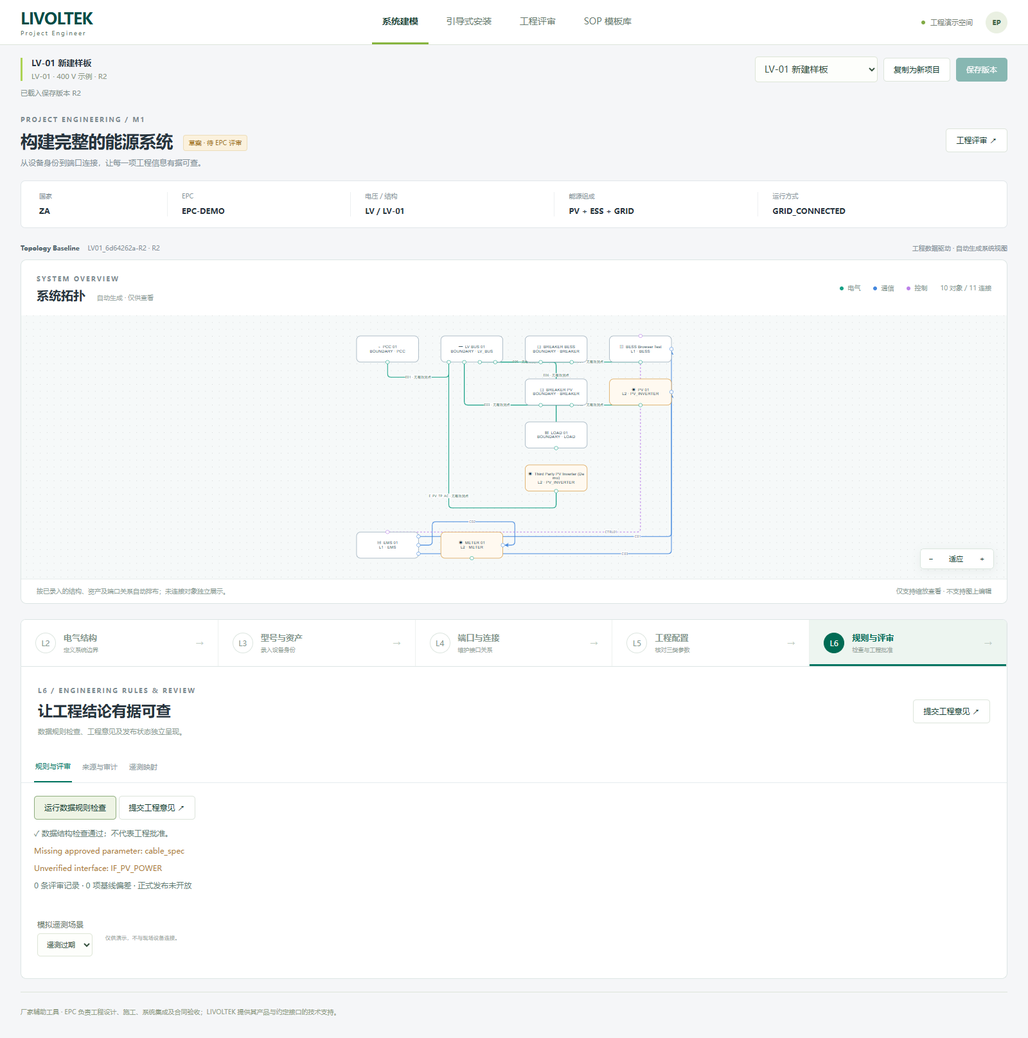
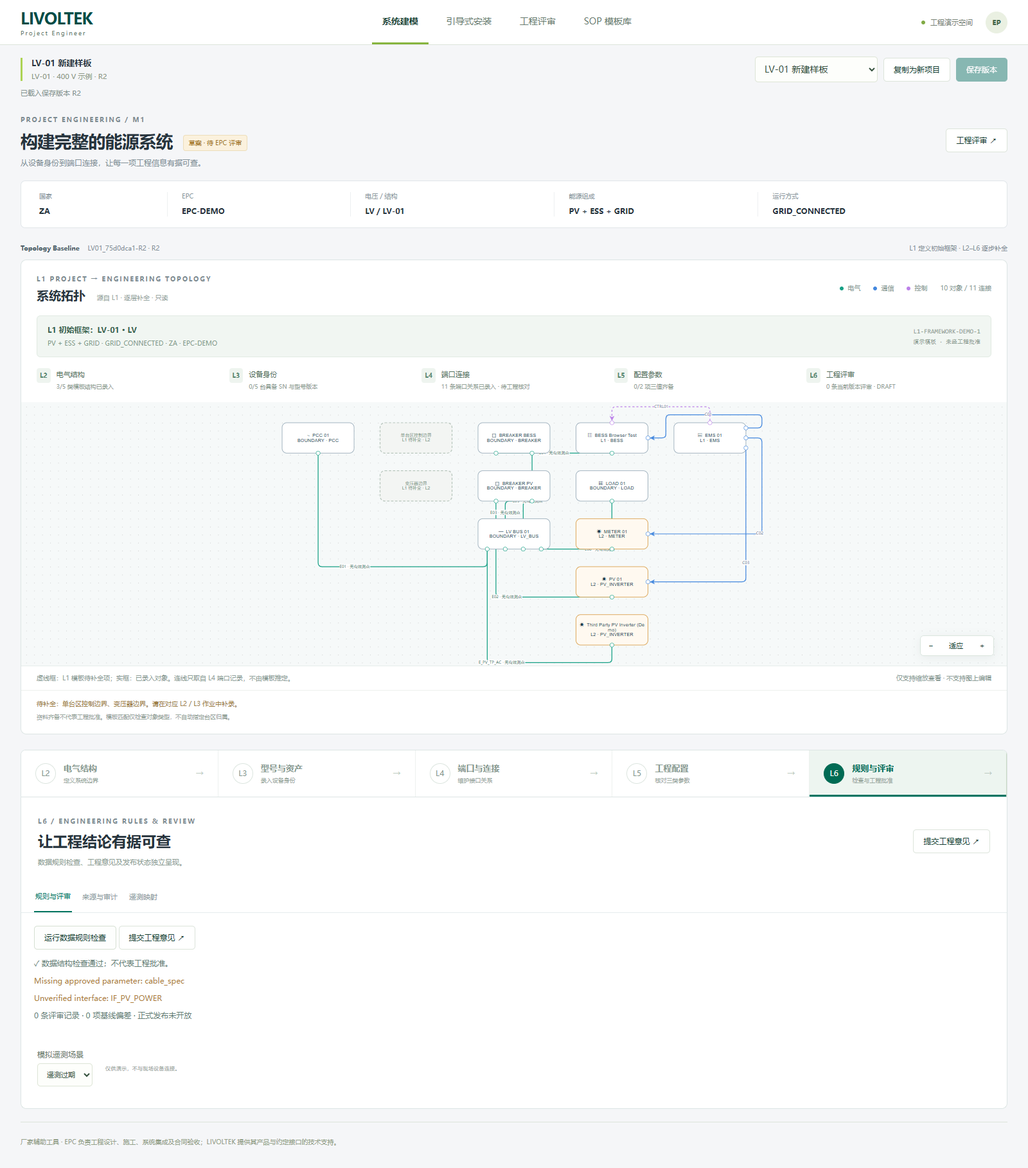
Derive initial topology framework from L1 and show progressive evidence

diff --git a/frontend/src/M1.tsx b/frontend/src/M1.tsx
@@ -2,6 +2,7 @@ import {useEffect,useMemo,useState} from 'react'
 import {Topology,colors} from './Topology'
 import {api,type Model,type Kind,type Flow,type Review} from './types'
 import './m1.css'
+import {projectFramework,completionEvidence,templateVersion} from './projectTopology'
 
 type Props={model:Model;change:(m:Model)=>void;selected:string;select:(id:string)=>void;flows:Record<string,Flow>;review:()=>void;reviews:Review[];revision:number;scenario:string;setScenario:(s:string)=>void}
 type Value={value:number;unit:string;source:string;status?:string;source_ref?:string}
@@ -19,6 +20,8 @@ export function M1({model,change,selected,select,flows,review,reviews,revision,s
  const [from,setFrom]=useState(''),[to,setTo]=useState('')
  const [search,setSearch]=useState(''),[code,setCode]=useState(''),[resolved,setResolved]=useState(false),[error,setError]=useState(''),[result,setResult]=useState<{valid:boolean;errors:string[];warnings:string[]}|null>(null)
  const [form,setForm]=useState({name:'',manufacturer:'',model:'',sn:'',firmware:'',location:'',type:'PV_INVERTER',parent:'',document:'',domains:['AC','RS485'] as string[]})
+ const framework=useMemo(()=>projectFramework(model),[model])
+ const evidence=completionEvidence(model,reviews,revision)
  const canvasModel=useMemo(()=>({...model,view_layout:{...model.view_layout,layer_visibility:{ELECTRICAL:true,COMMUNICATION:true,CONTROL:true}}}),[model])
  const node=model.nodes.find(n=>n.node_id===selected),asset=model.device_assets.find(a=>a.asset_id===node?.device_asset_id),device=model.device_models.find(d=>d.model_id===asset?.model_id),edge=model.edges.find(e=>e.edge_id===selected)
  const livoltek=asset?.equipment_origin==='LIVOLTEK'
@@ -53,8 +56,8 @@ export function M1({model,change,selected,select,flows,review,reviews,revision,s
  return <section className="m1">
   <div className="m1Title"><div><span className="kicker">PROJECT ENGINEERING / M1</span><h1>构建完整的能源系统<span className="draft">草案 · 待 EPC 评审</span></h1><p>从设备身份到端口连接，让每一项工程信息有据可查。</p></div><button onClick={review}>工程评审 ↗</button></div>
   <div className="projectFacts">{[['国家',String(model.project.country_code)],['EPC',String(model.project.epc_org_id)],['电压 / 结构',`${model.project.voltage_level} / ${model.project.structure_code}`],['能源组成',(model.project.energy_features as string[]).join(' + ')],['运行方式',(model.project.operation_modes as string[]).join(' / ')]].map(([k,v])=><div key={k}><small>{k}</small><strong>{v}</strong></div>)}</div>
-  <div className="crossbar"><span><b>Topology Baseline</b> {model.baseline.baseline_id} · R{revision}</span><span>工程数据驱动 · 自动生成系统视图</span></div>
-  <section className="systemOverview" aria-label="自动生成系统拓扑"><div className="overviewHeading"><div><span className="kicker">SYSTEM OVERVIEW</span><h2>系统拓扑 <span>自动生成 · 仅供查看</span></h2></div><div className="staticLegend">{kinds.map(k=><span key={k}><i style={{background:colors[k]}}/>{kindName[k]}</span>)}<span>{model.nodes.length} 对象 / {model.edges.length} 连接</span></div></div><Topology model={canvasModel} flows={flows}/><div className="overviewFoot"><span>按已录入的结构、资产及端口关系自动排布；未连接对象独立展示。</span><span>仅支持缩放查看 · 不支持图上编辑</span></div></section>
+  <div className="crossbar"><span><b>Topology Baseline</b> {model.baseline.baseline_id} · R{revision}</span><span>L1 定义初始框架 · L2–L6 逐步补全</span></div>
+  <section className="systemOverview" aria-label="自动生成系统拓扑"><div className="overviewHeading"><div><span className="kicker">L1 PROJECT → ENGINEERING TOPOLOGY</span><h2>系统拓扑 <span>源自 L1 · 逐层补全 · 只读</span></h2></div><div className="staticLegend">{kinds.map(k=><span key={k}><i style={{background:colors[k]}}/>{kindName[k]}</span>)}<span>{model.nodes.length} 对象 / {model.edges.length} 连接</span></div></div><div className="frameworkSource"><div><strong>L1 初始框架：{model.project.structure_code} · {String(model.project.voltage_level)}</strong><p>{(model.project.energy_features as string[]).join(' + ')} · {(model.project.operation_modes as string[]).join(' / ')} · {String(model.project.country_code)} · {String(model.project.epc_org_id)}</p></div><span>{templateVersion}<small>演示模板 · 未经工程批准</small></span></div><div className="completionEvidence">{evidence.map(([level,title,text])=><div key={level}><b>{level}</b><span>{title}<small>{text}</small></span></div>)}</div><Topology model={canvasModel} flows={flows}/><div className="overviewFoot"><span>虚线框：L1 模板待补全项；实框：已录入对象。连线只取自 L4 端口记录，不由模板推定。</span><span>仅支持缩放查看 · 不支持图上编辑</span></div><div className="frameworkGaps">{framework.missing.length?<>待补全：{framework.missing.map(s=>s.name).join('、')}。请在对应 L2 / L3 作业中补录。</>:<>L1 模板类型已覆盖；仍需核对数量、归属、接线、参数及评审。</>}<small>资料齐备不代表工程批准。模板匹配仅检查对象类型，不自动指定台区归属。{model.project.structure_code==='MV-03'?' MV-03 为待确认功能特化模板。':''}</small></div></section>
   <nav className="stageNav" aria-label="工程数据分层">{[['L2','电气结构','定义系统边界'],['L3','型号与资产','录入设备身份'],['L4','端口与连接','维护接口关系'],['L5','工程配置','核对三类参数'],['L6','规则与评审','检查与工程批准']].map(([id,title,description])=><button key={id} className={stage===id?'active':''} aria-current={stage===id?'step':undefined} onClick={()=>{setStage(id);setError('');if(id==='L3'&&!asset)select(model.nodes.find(n=>n.device_asset_id)?.node_id||selected);if(id==='L6')setBottom('规则与评审')}}><b>{id}</b><span>{title}<small>{description}</small></span><i>→</i></button>)}</nav>
   <section className="stageContent" aria-label={stage+' 作业区'}>
    {stage==='L2'&&<><div className="stageHeading"><div><span className="kicker">L2 / ELECTRICAL STRUCTURE</span><h2>从电气结构开始</h2><p>定义 PCC、变压器区域、母线、馈线和断路器。结构对象无需 SN。</p></div><button className="primary" onClick={()=>open('structure')}>＋ 添加电气结构</button></div><div className="tableScroll"><table className="layerTable"><thead><tr><th>结构对象</th><th>类型</th><th>所属结构</th><th>端口数</th><th>来源</th></tr></thead><tbody>{model.nodes.filter(n=>!n.device_asset_id).map(n=><tr key={n.node_id}><td><input aria-label={'结构名称 '+n.node_id} value={n.name} onChange={e=>edit(m=>{m.nodes.find(x=>x.node_id===n.node_id)!.name=e.target.value})}/><small>{n.node_id}</small></td><td>{labels[n.node_type]||n.node_type}</td><td>{model.nodes.find(x=>x.node_id===n.parent_node_id)?.name||'系统根节点'}</td><td>{model.ports.filter(p=>p.node_id===n.node_id).length}</td><td><span className="sourceBadge">{n.attributes?.entry_method==='STRUCTURE'?'手动录入':'基线导入'}</span></td></tr>)}</tbody></table></div><div className="stageNext"><span>完成结构定义后，在 L3 录入并归属设备。</span><button onClick={()=>setStage('L3')}>继续：型号与资产 →</button></div></>}

diff --git a/frontend/src/Topology.tsx b/frontend/src/Topology.tsx
@@ -1,24 +1,12 @@
 import {useEffect,useRef} from 'react'
 import {Graph} from '@antv/x6'
 import type {Model,Kind,Flow} from './types'
+import {projectFramework} from './projectTopology'
 
 export const colors:Record<Kind,string>={ELECTRICAL:'#16a085',COMMUNICATION:'#4488de',CONTROL:'#bc81e9'}
 const symbols:Record<string,string>={PCC:'⌁',BESS:'▥',EMS:'▤',METER:'◉',PV_INVERTER:'☀',LOAD:'▦',BREAKER:'⊟',LV_BUS:'━',GENERATOR:'G',ATS:'⇄',TRANSFORMER:'◎'}
-// Display geometry is derived from recorded connections, never written back to the model.
-export function automaticPositions(model:Model){
- const adjacency=new Map(model.nodes.map(n=>[n.node_id,new Set<string>()]))
- const owner=new Map(model.ports.map(p=>[p.port_id,p.node_id]))
- for(const e of model.edges.filter(e=>e.edge_type==='ELECTRICAL')){const a=owner.get(e.from_port_id),b=owner.get(e.to_port_id);if(a&&b&&a!==b){adjacency.get(a)?.add(b);adjacency.get(b)?.add(a)}}
- const ranks=new Map<string,number>(),queue:string[]=[]
- for(const n of model.nodes.filter(n=>n.node_type==='PCC').sort((a,b)=>a.node_id.localeCompare(b.node_id))){ranks.set(n.node_id,0);queue.push(n.node_id)}
- for(let i=0;i<queue.length;i++){const id=queue[i];for(const next of [...(adjacency.get(id)||[])].sort()){if(!ranks.has(next)){ranks.set(next,ranks.get(id)!+1);queue.push(next)}}}
- const groups=new Map<number,string[]>()
- for(const n of [...model.nodes].sort((a,b)=>a.node_id.localeCompare(b.node_id))){const rank=ranks.get(n.node_id)??-1;groups.set(rank,[...(groups.get(rank)||[]),n.node_id])}
- const positions:Record<string,{x:number;y:number}>={}
- const height=Math.max(1,...[...groups.entries()].filter(([r])=>r>=0).map(([,ids])=>ids.length))*125
- for(const [rank,ids] of groups){ids.forEach((id,i)=>{positions[id]=rank<0?{x:(i%5)*245,y:height+70+Math.floor(i/5)*125}:{x:rank*245,y:i*125}})}
- return positions
-}
+// L1 establishes the display framework; L2-L6 supply recorded engineering facts.
+export function automaticPositions(model:Model){return projectFramework(model).positions}
 export function Topology({model,flows}:{model:Model;flows:Record<string,Flow>}) {
  const container=useRef<HTMLDivElement>(null)
  const graphRef=useRef<Graph|null>(null)
@@ -31,7 +19,7 @@ export function Topology({model,flows}:{model:Model;flows:Record<string,Flow>}) 
  },[])
  useEffect(()=>{
   const graph=graphRef.current;if(!graph)return
-  const positions=automaticPositions(model)
+  const {positions,missing}=projectFramework(model)
   graph.clearCells()
   for(const n of model.nodes){
    const asset=model.device_assets.find(a=>a.asset_id===n.device_asset_id)
@@ -40,6 +28,9 @@ export function Topology({model,flows}:{model:Model;flows:Record<string,Flow>}) 
     attrs:{body:{fill:asset?.equipment_origin==='THIRD_PARTY'?'#fff9f0':'#fff',stroke:asset?.equipment_origin==='THIRD_PARTY'?'#dba455':'#9dafbc',rx:12,ry:12,strokeWidth:1.5},label:{text:`${symbols[(n.icon_key||'').toUpperCase()]||symbols[n.node_type]||'◇'}  ${n.name}\n${asset?.modeling_level?.split('_')[0]||'BOUNDARY'} · ${n.node_type}`,fontSize:12,fill:'#203e50',textWrap:{width:162,height:65,ellipsis:true}}},
     ports:{groups:{power:{position:'bottom',attrs:{circle:{r:5,magnet:false,stroke:colors.ELECTRICAL,fill:'#fff'}}},comm:{position:'right',attrs:{circle:{r:5,magnet:false,stroke:colors.COMMUNICATION,fill:'#fff'}}},control:{position:'top',attrs:{circle:{r:5,magnet:false,stroke:colors.CONTROL,fill:'#fff'}}}},
      items:model.ports.filter(p=>p.node_id===n.node_id).map(p=>({id:p.port_id,group:['AC','DC'].includes(p.domain)?'power':p.domain==='CONTROL_LOGICAL'?'control':'comm',attrs:{circle:{title:p.name+' · '+p.domain}}}))}})
+  }
+  for(const slot of missing){
+   graph.addNode({id:slot.id,x:slot.position.x,y:slot.position.y,width:180,height:76,shape:'rect',attrs:{body:{fill:'#f3f5f3',stroke:'#b8c6bd',strokeDasharray:'6 4',rx:12,ry:12},label:{text:`${slot.name}\nL1 待补全 · ${slot.layer}`,fontSize:11,fill:'#84998b',textWrap:{width:165,height:65,ellipsis:true}}}})
   }
   for(const e of model.edges){
    if(!model.view_layout.layer_visibility[e.edge_type])continue

diff --git a/frontend/src/projectTopology.ts b/frontend/src/projectTopology.ts
@@ -1,0 +1,54 @@
+import type {Model,Node,Review} from './types'
+
+export type ProjectSlot={key:string;type:string;name:string;layer:'L2'|'L3';rank:number}
+export const templateVersion='L1-FRAMEWORK-DEMO-1'
+// Presentation requirements derived from M1 V1.2 §§3, 7.7. They are not engineering assets or wiring.
+export function projectSlots(model:Model):ProjectSlot[]{
+ const p=model.project,features=new Set(p.energy_features as string[]),slots:ProjectSlot[]=[]
+ const add=(key:string,type:string,name:string,layer:'L2'|'L3',rank:number)=>slots.push({key,type,name,layer,rank})
+ if(features.has('GRID')||(p.operation_modes as string[]).includes('GRID_CONNECTED'))add('pcc','PCC','并网边界 PCC','L2',0)
+ const multi=p.structure_code==='LV-02',mv=p.voltage_level==='MV'
+ if(mv){add('mvbus','MV_BUS','中压母线','L2',1);add('feeder','FEEDER','中压馈线','L2',2)}
+ const zones=multi?2:1
+ for(let i=0;i<zones;i++){add('zone'+i,'TRANSFORMER_ZONE',multi?`台区 ${i+1} · 数量下限`:'单台区控制边界','L2',mv?3:1);add('transformer'+i,'TRANSFORMER',multi?`台区 ${i+1} 变压器`:'变压器边界','L2',mv?3:1);add('lvbus'+i,'LV_BUS',multi?`台区 ${i+1} 低压母线`:'低压母线','L2',mv?4:2)}
+ if(p.structure_code==='MV-02')add('mvbus2','MV_BUS','分段 / 多母线边界待定义','L2',1)
+ const rank=mv?5:3
+ if(features.has('PV'))add('pv','PV_INVERTER','光伏设备位置','L3',rank)
+ if(features.has('ESS'))add('ess','BESS','储能设备位置','L3',rank)
+ if(features.has('DIESEL'))add('diesel','GENERATOR','柴油机设备位置','L3',rank)
+ if(features.has('EV_CHARGING'))add('ev','EV_CHARGER','充电设备位置','L3',rank)
+ add('load','LOAD','负载边界','L2',rank)
+ add('ems','EMS',multi?'项目级协调器':'能源管理设备位置','L3',rank+1)
+ return slots
+}
+
+export function projectFramework(model:Model){
+ const slots=projectSlots(model),used=new Set<string>()
+ const matched=slots.map(slot=>{
+  const node=model.nodes.find(n=>n.node_type===slot.type&&!used.has(n.node_id))
+  if(node)used.add(node.node_id)
+  return {slot,node}
+ })
+ // Matching by type reports coverage only. It never assigns engineering ownership or connectivity.
+ const rankFor=(n:Node)=>matched.find(x=>x.node?.node_id===n.node_id)?.slot.rank??(n.node_type==='BREAKER'?2:n.device_asset_id?3:1)
+ const rows=new Map<number,number>(),positions:Record<string,{x:number;y:number}>={}
+ for(const n of [...model.nodes].sort((a,b)=>rankFor(a)-rankFor(b)||a.node_id.localeCompare(b.node_id))){const rank=rankFor(n),row=rows.get(rank)||0;positions[n.node_id]={x:rank*245,y:row*120};rows.set(rank,row+1)}
+ const missing=matched.filter(x=>!x.node).map(({slot})=>{const row=rows.get(slot.rank)||0;rows.set(slot.rank,row+1);return {...slot,id:'l1-placeholder-'+slot.key,position:{x:slot.rank*245,y:row*120}}})
+ return {slots,matched,missing,positions}
+}
+
+export function completionEvidence(model:Model,reviews:Review[],revision:number){
+ const framework=projectFramework(model)
+ const structures=framework.matched.filter(x=>x.slot.layer==='L2')
+ const identified=model.device_assets.filter(a=>a.serial_number&&model.device_models.some(d=>d.model_id===a.model_id&&d.master_data_version))
+ const validEdges=model.edges.filter(e=>model.ports.some(p=>p.port_id===e.from_port_id)&&model.ports.some(p=>p.port_id===e.to_port_id))
+ const parameters=model.parameters as {planned:unknown;actual:unknown;approved:unknown}[]
+ const currentReviews=reviews.filter(r=>r.revision===revision)
+ return [
+  ['L2','电气结构',`${structures.filter(x=>x.node).length}/${structures.length} 类模板结构已录入`],
+  ['L3','设备身份',`${identified.length}/${model.device_assets.length} 台具备 SN 与型号版本`],
+  ['L4','端口连接',`${validEdges.length} 条端口关系已录入 · 待工程核对`],
+  ['L5','配置参数',`${parameters.filter(p=>p.planned&&p.actual&&p.approved).length}/${parameters.length} 项三值齐备`],
+  ['L6','工程评审',`${currentReviews.length} 条当前版本评审 · ${model.baseline.status}`],
+ ]
+}

diff --git a/frontend/src/m1.css b/frontend/src/m1.css
@@ -8,3 +8,4 @@
 @media(max-width:1050px){.stageNav>button{padding:15px 12px;gap:8px}.stageNav small,.stageNav i{display:none}.stageNav>button>span{font-size:11px}.inlineDetails .detailBody{grid-template-columns:repeat(2,minmax(0,1fr))}.stageHeading{align-items:flex-start}.stageActions{flex-direction:column}.staticLegend{gap:10px}}
 @media(max-width:700px){.overviewHeading{display:block;padding:16px}.staticLegend{margin-top:14px;flex-wrap:wrap}.overviewFoot{display:block;padding:12px 16px;line-height:1.8}.overviewFoot>span{display:block}.stageNav{overflow:auto}.stageNav>button{min-width:118px;padding:14px 10px}.stageNav>button>b{width:25px;height:25px;font-size:10px}.stageHeading{flex-direction:column;padding:20px 16px}.stageActions{flex-direction:row;flex-wrap:wrap}.stageHeading h2{font-size:20px}.inlineDetails{margin:16px}.inlineDetails .detailBody{grid-template-columns:1fr}.inlineDetails .fieldPair{grid-column:auto}.stageNext{padding:16px;gap:10px;flex-wrap:wrap}.layerTable td,.layerTable th{padding:12px 16px}.stageContent{min-height:0}}
 .deviceNameLink{border:0!important;background:transparent!important;text-align:left;padding:0!important;font-weight:600;color:#176e58!important;white-space:normal}.layerTable tr:has(.deviceNameLink){cursor:pointer}.layerTable tr:has(.deviceNameLink):hover{background:#f3f8f5}.detailClose{float:right;padding:15px 18px}.detailClose button{font-size:11px;border:0;color:#749184;background:transparent}.manufacturerSummary{grid-column:1/-1;background:#f7faf8;border:1px solid #e2ebe5;border-radius:6px;padding:14px 16px;margin:4px 0 10px}.manufacturerSummary strong{display:block;font-size:12px;margin-top:12px}.manufacturerSummary p{font-size:12px;margin:6px 0}.manufacturerSummary small{font-size:10px;color:#8a9e90}.inlineDetails input[readonly]{background:#f4f7f5;color:#82978b;border-color:#e4ece6}.domainPicker input:disabled{cursor:default}
+.frameworkSource{display:flex;justify-content:space-between;align-items:center;gap:20px;margin:0 24px;padding:14px 16px;background:#f1f6f2;border:1px solid #e1eae2;border-radius:6px;font-size:12px}.frameworkSource strong{font-weight:600;color:#38634e}.frameworkSource p{font-size:10px;color:#82998a;margin:7px 0 0}.frameworkSource>span{text-align:right;font-family:Consolas,monospace;font-size:10px;color:#8da092}.frameworkSource small{display:block;margin-top:5px;font-family:inherit;font-size:9px}.completionEvidence{display:grid;grid-template-columns:repeat(5,1fr);gap:12px;padding:17px 24px}.completionEvidence>div{display:flex;gap:9px;align-items:flex-start;font-size:11px;color:#526f5b}.completionEvidence b{font-size:10px;padding:5px;background:#eef4ef;border-radius:4px;color:#54866d}.completionEvidence span{padding-top:3px}.completionEvidence small{display:block;font-size:9px;color:#93a397;margin-top:5px;line-height:1.6}.frameworkGaps{padding:12px 24px 17px;color:#a08148;font-size:10px;border-top:1px solid #edf1ed;line-height:1.8}.frameworkGaps small{display:block;color:#98a69d;font-size:9px;margin-top:3px}@media(max-width:850px){.completionEvidence{grid-template-columns:repeat(2,1fr)}.frameworkSource{margin:0 15px;align-items:flex-start;flex-direction:column;gap:10px}.frameworkSource>span{text-align:left}}

diff --git a/frontend/e2e/connections.spec.ts b/frontend/e2e/connections.spec.ts
@@ -1,7 +1,7 @@
 import {test,expect} from '@playwright/test'
 test('scan and manual intake persist, reject duplicate SN, and enforce port domains',async({page})=>{
  await page.goto('/')
- await expect(page.getByTestId('topology-canvas').locator('.x6-node')).toHaveCount(10)
+ await expect(page.getByTestId('topology-canvas').locator('.x6-node').filter({hasNotText:'L1 待补全'})).toHaveCount(10)
  await page.getByRole('button',{name:'复制为新项目'}).click()
  await expect(page.locator('.projectBar strong')).toHaveText('LV-01 新建样板')
  await page.getByRole('button',{name:/L3 型号与资产/}).click()
@@ -27,7 +27,7 @@ test('scan and manual intake persist, reject duplicate SN, and enforce port doma
  await expect(page.getByLabel('安装位置',{exact:true})).toHaveValue('BESS room 02')
  await page.getByRole('button',{name:'收起详情 ×'}).click()
  await expect(page.getByRole('region',{name:'设备详情',exact:true})).toHaveCount(0)
- await expect(page.getByTestId('topology-canvas').locator('.x6-node')).toHaveCount(11)
+ await expect(page.getByTestId('topology-canvas').locator('.x6-node').filter({hasNotText:'L1 待补全'})).toHaveCount(11)
  await page.getByRole('button',{name:/扫码录入 LIVOLTEK/}).click()
  await page.getByRole('button',{name:'填入演示二维码'}).click()
  await page.getByRole('button',{name:'解析设备',exact:true}).click()
@@ -41,7 +41,7 @@ test('scan and manual intake persist, reject duplicate SN, and enforce port doma
  await page.getByLabel('sn',{exact:true}).fill('TP-ACCEPTANCE-01')
  await page.getByLabel('document',{exact:true}).fill('DATASHEET-ACCEPTANCE')
  await page.getByRole('button',{name:'加入系统模型'}).click()
- await expect(page.getByTestId('topology-canvas').locator('.x6-node')).toHaveCount(12)
+ await expect(page.getByTestId('topology-canvas').locator('.x6-node').filter({hasNotText:'L1 待补全'})).toHaveCount(12)
  await expect(page.getByRole('region',{name:'设备详情',exact:true})).toHaveCount(0)
  await page.getByRole('button',{name:'打开设备 Third-party PV acceptance',exact:true}).click()
  await expect(page.getByLabel('第三方厂家',{exact:true})).toBeEditable()
@@ -59,7 +59,7 @@ test('scan and manual intake persist, reject duplicate SN, and enforce port doma
  await page.getByRole('button',{name:'保存版本',exact:true}).click()
  await expect(page.getByRole('status')).toContainText('已保存不可变版本')
  await page.reload()
- await expect(page.getByTestId('topology-canvas').locator('.x6-node')).toHaveCount(12)
+ await expect(page.getByTestId('topology-canvas').locator('.x6-node').filter({hasNotText:'L1 待补全'})).toHaveCount(12)
  await page.getByRole('button',{name:/L3 型号与资产/}).click()
  await expect(page.getByRole('region',{name:'设备详情',exact:true})).toHaveCount(0)
  await page.getByRole('button',{name:'查看设备 Third-party PV acceptance',exact:true}).click()

diff --git a/frontend/e2e/project-framework.spec.ts b/frontend/e2e/project-framework.spec.ts
@@ -1,0 +1,27 @@
+import {test,expect} from '@playwright/test'
+import {projectFramework,completionEvidence} from '../src/projectTopology'
+import type {Model} from '../src/types'
+
+const empty=():Model=>({schema_version:'1.0.0',project:{project_id:'EMPTY',name:'Project only',structure_code:'LV-01',voltage_level:'LV',country_code:'ZA',epc_org_id:'EPC',energy_features:['PV','ESS','GRID'],operation_modes:['GRID_CONNECTED']},baseline:{baseline_id:'EMPTY-R1',version:'1',status:'DRAFT'},nodes:[],ports:[],edges:[],device_assets:[],device_models:[],parameters:[],view_layout:{editor:'x6',positions:{},layer_visibility:{ELECTRICAL:true,COMMUNICATION:true,CONTROL:true}}})
+test('L1 alone produces a non-mutating initial framework without physical wiring',()=>{
+ const m=empty(),before=JSON.stringify(m),f=projectFramework(m)
+ expect(f.missing.map(s=>s.type)).toEqual(expect.arrayContaining(['PCC','TRANSFORMER_ZONE','TRANSFORMER','LV_BUS','PV_INVERTER','BESS','EMS']))
+ expect(JSON.stringify(m)).toBe(before)
+ expect(m.edges).toEqual([])
+})
+test('L2 replaces only its placeholder and L1 energy changes retain recorded equipment',()=>{
+ const m=empty();m.nodes.push({node_id:'BUS',logical_id:'BUS',name:'LV Bus',node_type:'LV_BUS',parent_node_id:null,zone_id:null,device_asset_id:null})
+ expect(projectFramework(m).missing.some(s=>s.type==='LV_BUS')).toBe(false)
+ expect(projectFramework(m).missing.some(s=>s.type==='BESS')).toBe(true)
+ m.project.energy_features=['DIESEL'];m.project.operation_modes=['OFF_GRID']
+ const f=projectFramework(m)
+ expect(f.slots.some(s=>s.type==='PV_INVERTER'||s.type==='PCC')).toBe(false)
+ expect(f.slots.some(s=>s.type==='GENERATOR')).toBe(true)
+ expect(f.positions.BUS).toBeDefined()
+})
+test('LV-02 preserves unfilled zone requirements without inventing interties',()=>{
+ const m=empty();m.project.structure_code='LV-02'
+ expect(projectFramework(m).missing.filter(s=>s.type==='TRANSFORMER_ZONE')).toHaveLength(2)
+ expect(m.edges).toEqual([])
+ expect(completionEvidence(m,[],1)[4][2]).toContain('DRAFT')
+})

diff --git a/frontend/e2e/workflow.spec.ts b/frontend/e2e/workflow.spec.ts
@@ -3,7 +3,7 @@ import {test,expect} from '@playwright/test'
 test('LV-01 editing, persistence, telemetry, SOP review and generation',async({page})=>{
  const errors:string[]=[];page.on('pageerror',e=>errors.push(e.message))
  await page.goto('/')
- await expect(page.getByTestId('topology-canvas').locator('.x6-node')).toHaveCount(10)
+ await expect(page.getByTestId('topology-canvas').locator('.x6-node').filter({hasNotText:'L1 待补全'})).toHaveCount(10)
  await page.getByRole('button',{name:'复制为新项目'}).click()
  await expect(page.locator('.projectBar strong')).toHaveText('LV-01 新建样板')
  await page.getByRole('button',{name:/L3 型号与资产/}).click()

diff --git a/README.md b/README.md
@@ -107,3 +107,13 @@ Device details are hidden by default and after adding an asset. Clicking a devic
 LIVOLTEK identity/master data is read-only in the UI: manufacturer/model, scanned SN, catalogue document and port template. Users supplement the site label, installed location, observed firmware and structure assignment. Scan intake still uses the explicitly marked demo catalogue; live manufacturer lookup and camera decoding remain unconnected. Third-party manufacturer/model/document and SN can be manually entered or corrected; corrections remain unverified and copy shared model records before changing them.
 
 Validated via production build and both browser workflows: default-hidden details, opening/closing, scanner-owned read-only fields, editable third-party data, persistence, domain validation and the existing read-only topology/M2 regressions.
+
+### L1-driven progressive topology
+
+Topology now starts from an explicit `L1-FRAMEWORK-DEMO-1` presentation template based on project structure, voltage, energy composition and operating mode (M1 V1.2 classification and layered-view requirements). It exists even when L2-L6 records are empty. Missing structural/device types appear as labelled dashed placeholders; supplied objects replace matching placeholders. Country and EPC remain explicit project context, not implied country-specific approved design.
+
+Placeholders are display-only: they create no persisted assets, ports, assignments or electrical edges. Existing engineering records are never discarded when the project definition changes. Type coverage is not proof of per-zone engineering correctness; LV-02 shows minimum zone requirements without inventing interties, and MV-03 remains a provisional specialization. Physical/communication/control edges are rendered only from recorded port-level connections.
+
+The overview reports L2 template coverage, L3 SN/model-version coverage, L4 recorded connections, L5 planned/actual/approved presence, and L6 current-revision review/baseline state. These are evidence counts, not approval or complete-design claims. The original baselines and manufacturer approval boundaries are unchanged.
+
+Validated: production build and five tests (three framework cases plus both browser regression workflows).
